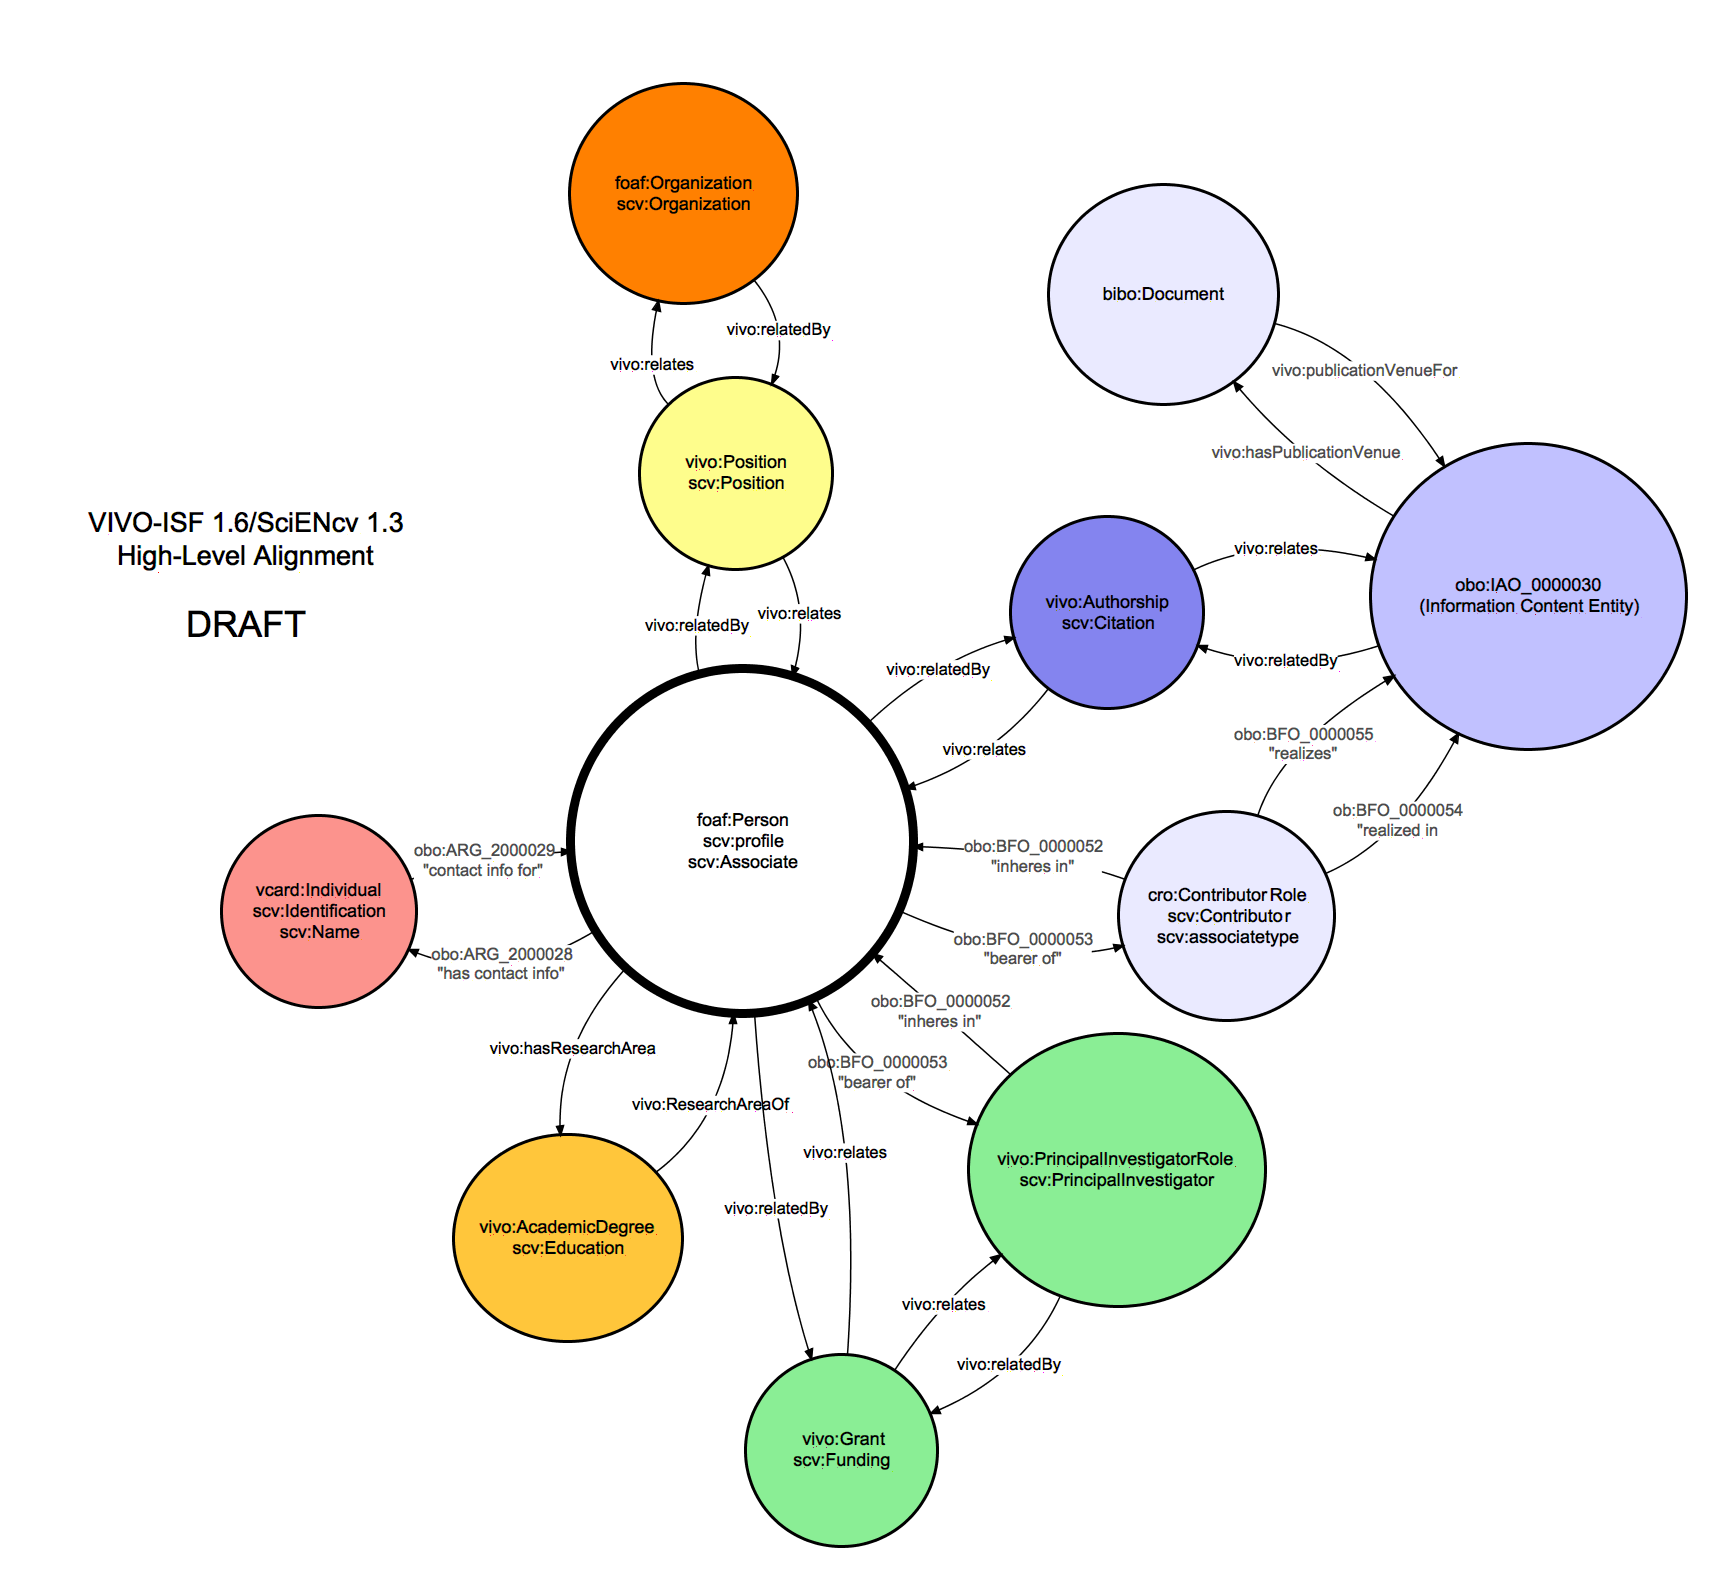
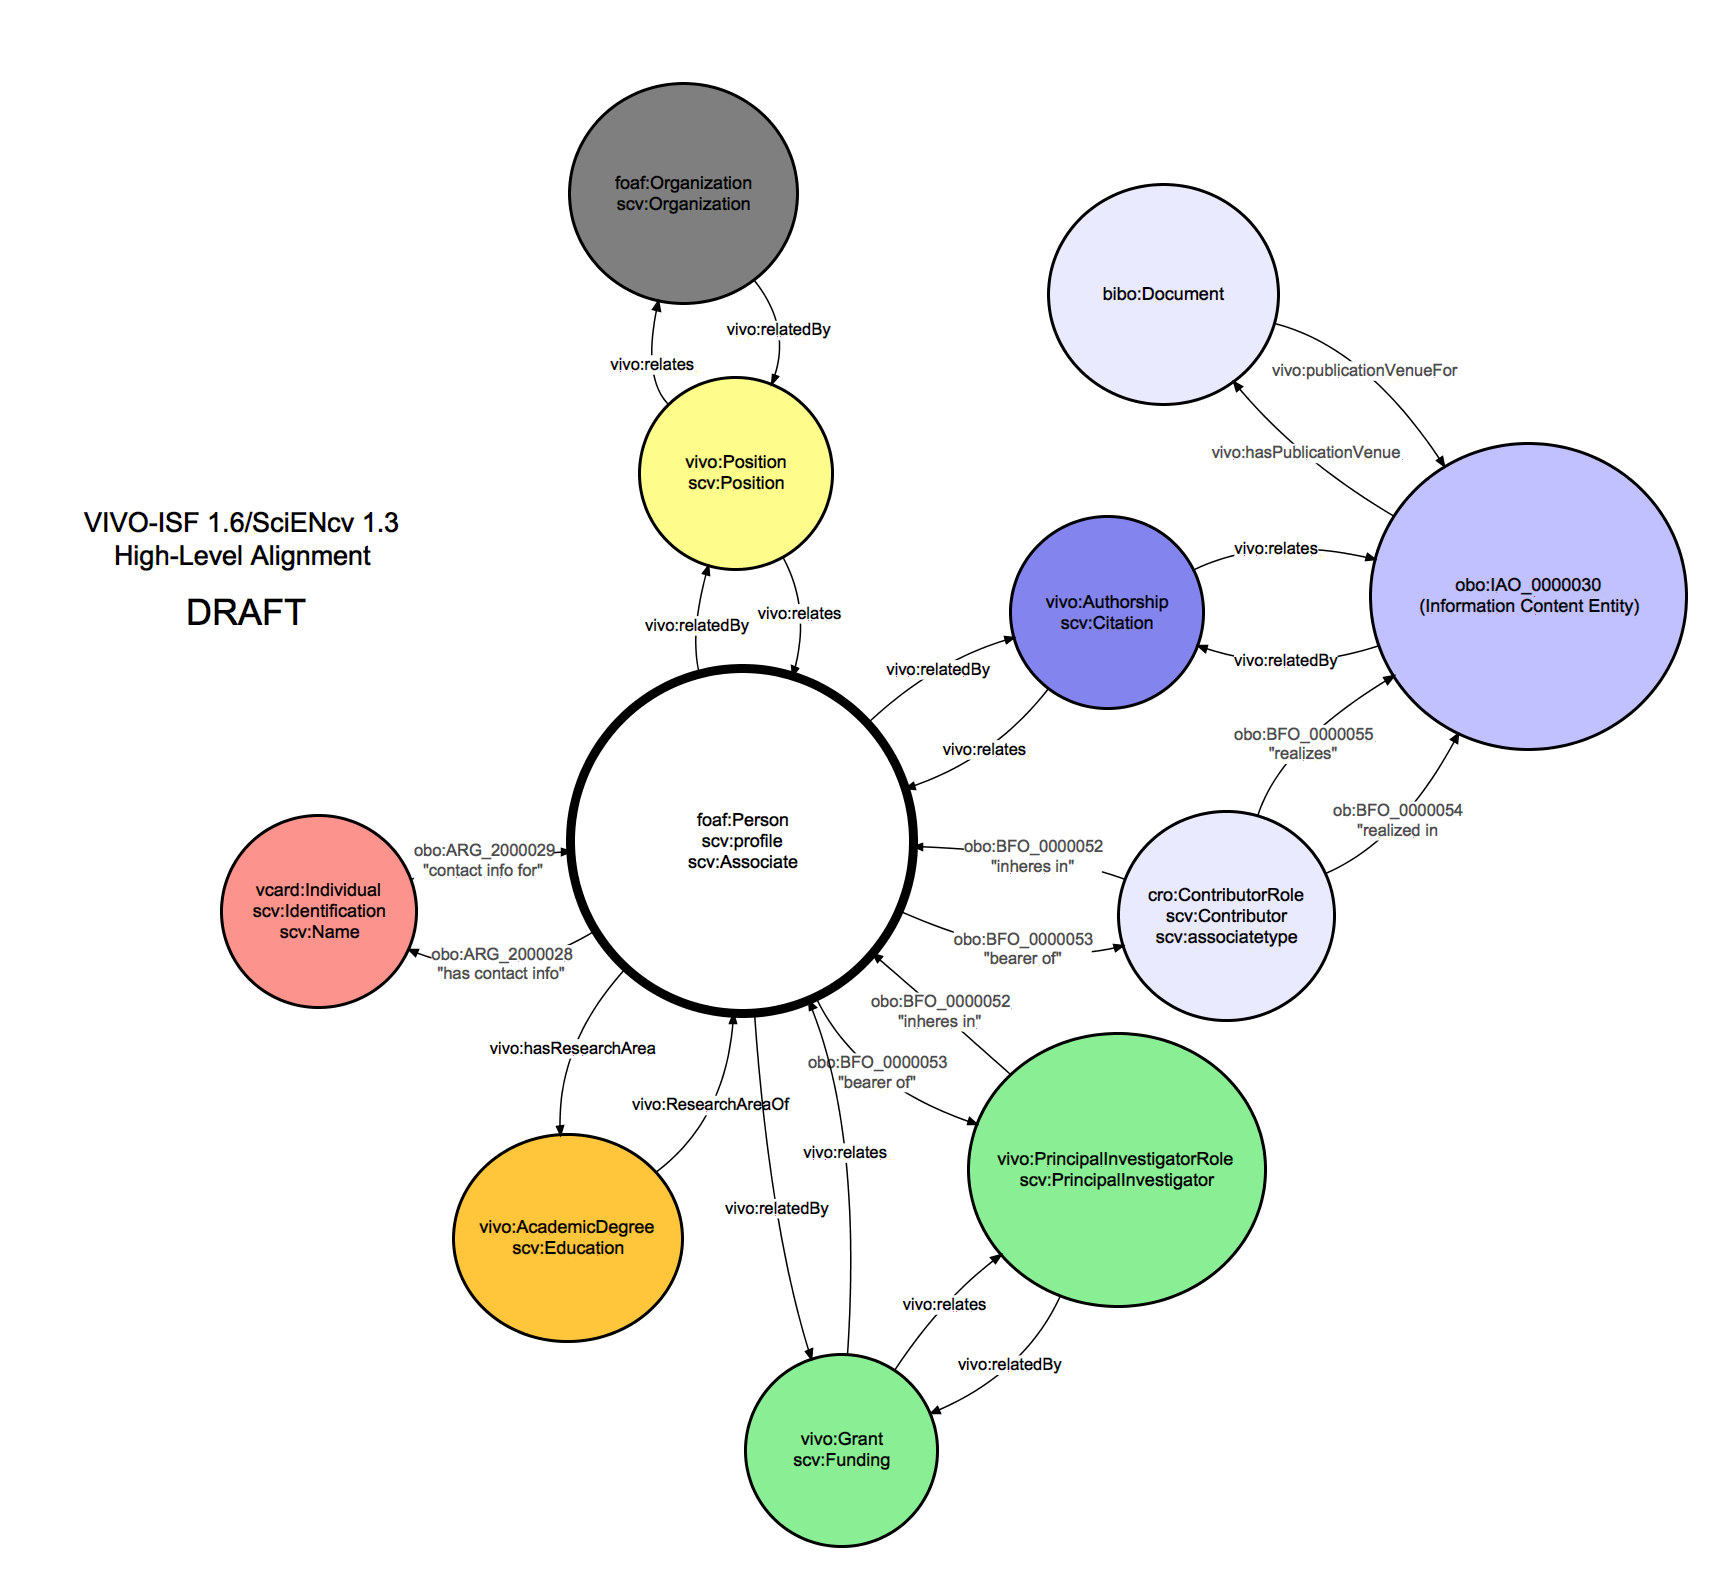
Update Organization node to reflect new color scheme

diff --git a/documents/VIVO-ISF-SciENcv1.3-alignment.vue b/documents/VIVO-ISF-SciENcv1.3-alignment.vue
@@ -1,14 +1,14 @@
 <!-- Tufts VUE 3.3.0 concept-map (VIVO-ISF-SciENcv1.3-alignment.vue) 2016-04-16 -->
 <!-- Tufts VUE: http://vue.tufts.edu/ -->
 <!-- Do Not Remove: VUE mapping @version(1.1) jar:file:/Applications/VUE.app/Contents/Resources/Java/VUE.jar!/tufts/vue/resources/lw_mapping_1_1.xml -->
-<!-- Do Not Remove: Saved date Sat Apr 16 03:20:37 PDT 2016 by whimar on platform Mac OS X 10.11.4 in JVM 1.8.0_74-b02 -->
+<!-- Do Not Remove: Saved date Sat Apr 16 14:15:59 PDT 2016 by whimar on platform Mac OS X 10.11.4 in JVM 1.8.0_74-b02 -->
 <!-- Do Not Remove: Saving version @(#)VUE: built October 8 2015 at 1658 by tomadm on Linux 2.6.32-504.23.4.el6.x86_64 i386 JVM 1.7.0_21-b11(bits=32) -->
 <?xml version="1.0" encoding="US-ASCII"?>
 <LW-MAP xmlns:xsi="http://www.w3.org/2001/XMLSchema-instance"
     xsi:noNamespaceSchemaLocation="none" ID="0"
     label="VIVO-ISF-SciENcv1.3-alignment.vue" created="1393354945662"
     x="0.0" y="0.0" width="1.4E-45" height="1.4E-45" strokeWidth="0.0" autoSized="false">
-    <resource referenceCreated="1460802037858" size="34460"
+    <resource referenceCreated="1460841360006" size="34460"
         spec="/Users/whimar/git/sciencv-integration/documents/VIVO-ISF-SciENcv1.3-alignment.vue"
         type="1" xsi:type="URLResource">
         <title>VIVO-ISF-SciENcv1.3-alignment.vue</title>
@@ -76,7 +76,7 @@
         layerID="1" created="1455982783789" x="-550.871" y="-735.3334"
         width="152.0" height="146.48209" strokeWidth="2.0"
         autoSized="false" xsi:type="node">
-        <fillColor>#FF8000</fillColor>
+        <fillColor>#7F7F7F</fillColor>
         <strokeColor>#000000</strokeColor>
         <textColor>#000000</textColor>
         <font>Arial-plain-12</font>
@@ -502,8 +502,8 @@
         <ctrlPoint0 x="-355.3386" y="-38.85554" xsi:type="point"/>
     </child>
     <child ID="296" label="vivo:relatedBy" layerID="1"
-        created="1460800670111" x="-447.60016" y="-116.282715"
-        width="70.0" height="231.66577" strokeWidth="1.0"
+        created="1460800670111" x="-447.10016" y="-116.282715"
+        width="69.0" height="231.66577" strokeWidth="1.0"
         autoSized="false" controlCount="1" arrowState="2" xsi:type="link">
         <strokeColor>#000000</strokeColor>
         <textColor>#000000</textColor>
@@ -531,7 +531,7 @@
     </child>
     <child ID="300" label="vivo:relatedBy" layerID="1"
         created="1460801008626" x="-310.6922" y="72.003845"
-        width="88.35608" height="79.753815" strokeWidth="1.0"
+        width="87.85608" height="79.753815" strokeWidth="1.0"
         autoSized="false" controlCount="1" arrowState="2" xsi:type="link">
         <strokeColor>#000000</strokeColor>
         <textColor>#000000</textColor>
@@ -544,7 +544,7 @@
         <ctrlPoint0 x="-247.7723" y="125.79867" xsi:type="point"/>
     </child>
     <child ID="301"
-        label="VIVO-ISF 1.6/SciENcv 1.3&#xa;    &#xa;    &#xa;      High-Level Alignment&#xa;    &#xa;    &#xa;      &#xa;    &#xa;    &#xa;      DRAFT"
+        label="VIVO-ISF 1.6/SciENcv 1.3 High-Level Alignment DRAFT"
         layerID="1" created="1460801267172" x="-914.43896"
         y="-454.20135" width="296.0" height="92.0" strokeWidth="0.0"
         autoSized="false" xsi:type="text">
@@ -566,30 +566,21 @@
   &lt;/head&gt;
   &lt;body&gt;
     &lt;p color="#000000" style="color: #000000; text-align: center"&gt;
-      &lt;font style="font-size:18;"&gt;VIVO-ISF 1.6/SciENcv 1.3
-&lt;/font&gt;    &lt;/p&gt;
+      &lt;font style="font-size:18;"&gt;VIVO-ISF 1.6/SciENcv 1.3 &lt;/font&gt;
+    &lt;/p&gt;
     &lt;p color="#000000" style="color: #000000; text-align: center"&gt;
-      &lt;font style="font-size:18;"&gt;High-Level Alignment
-&lt;/font&gt;    &lt;/p&gt;
+      &lt;font style="font-size:18;"&gt;High-Level Alignment &lt;/font&gt;
+    &lt;/p&gt;
     &lt;p color="#000000" style="color: #000000; text-align: center"&gt;
-      &lt;font style="font-size:18;"&gt;
-&lt;/font&gt;    &lt;/p&gt;
+      
+    &lt;/p&gt;
     &lt;p color="#000000" style="color: #000000; text-align: center"&gt;
       &lt;font style="font-size:24;"&gt;DRAFT&lt;/font&gt;
     &lt;/p&gt;
   &lt;/body&gt;
 &lt;/html&gt;
 </richText>
-        <label>VIVO-ISF 1.6/SciENcv 1.3
-    
-    
-      High-Level Alignment
-    
-    
-      
-    
-    
-      DRAFT</label>
+        <label>VIVO-ISF 1.6/SciENcv 1.3 High-Level Alignment DRAFT</label>
     </child>
     <child ID="302" label="New Text" layerID="1" created="1460801319838"
         x="-755.7723" y="-647.53467" width="148.0" height="26.0"
@@ -623,7 +614,7 @@
         y="0.0" width="1.4E-45" height="1.4E-45" strokeWidth="0.0" autoSized="false">
         <URIString>http://vue.tufts.edu/rdf/resource/6a822fa280fd5714007fcd7edc120198</URIString>
     </layer>
-    <userZoom>0.75</userZoom>
+    <userZoom>0.48241660181894114</userZoom>
     <userOrigin x="-789.8292" y="-729.651"/>
     <presentationBackground>#202020</presentationBackground>
     <PathwayList currentPathway="0" revealerIndex="-1">
